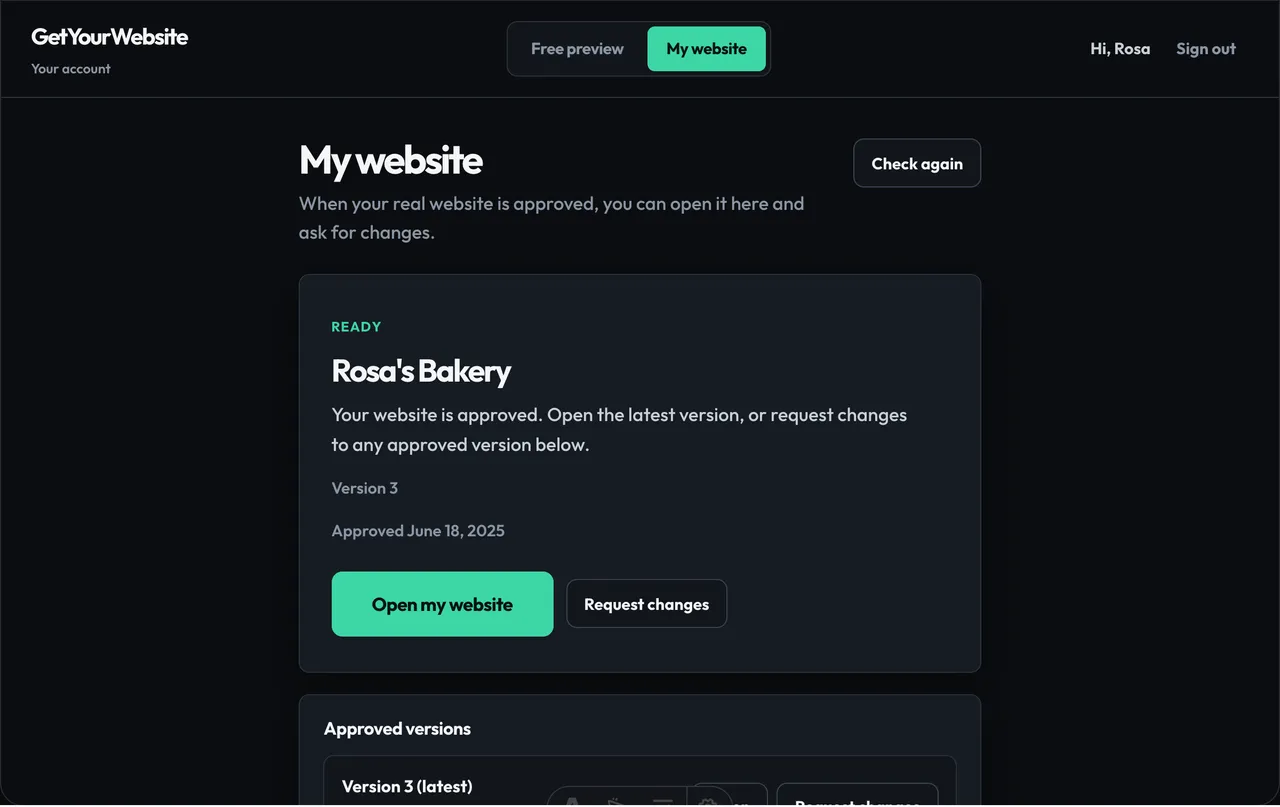
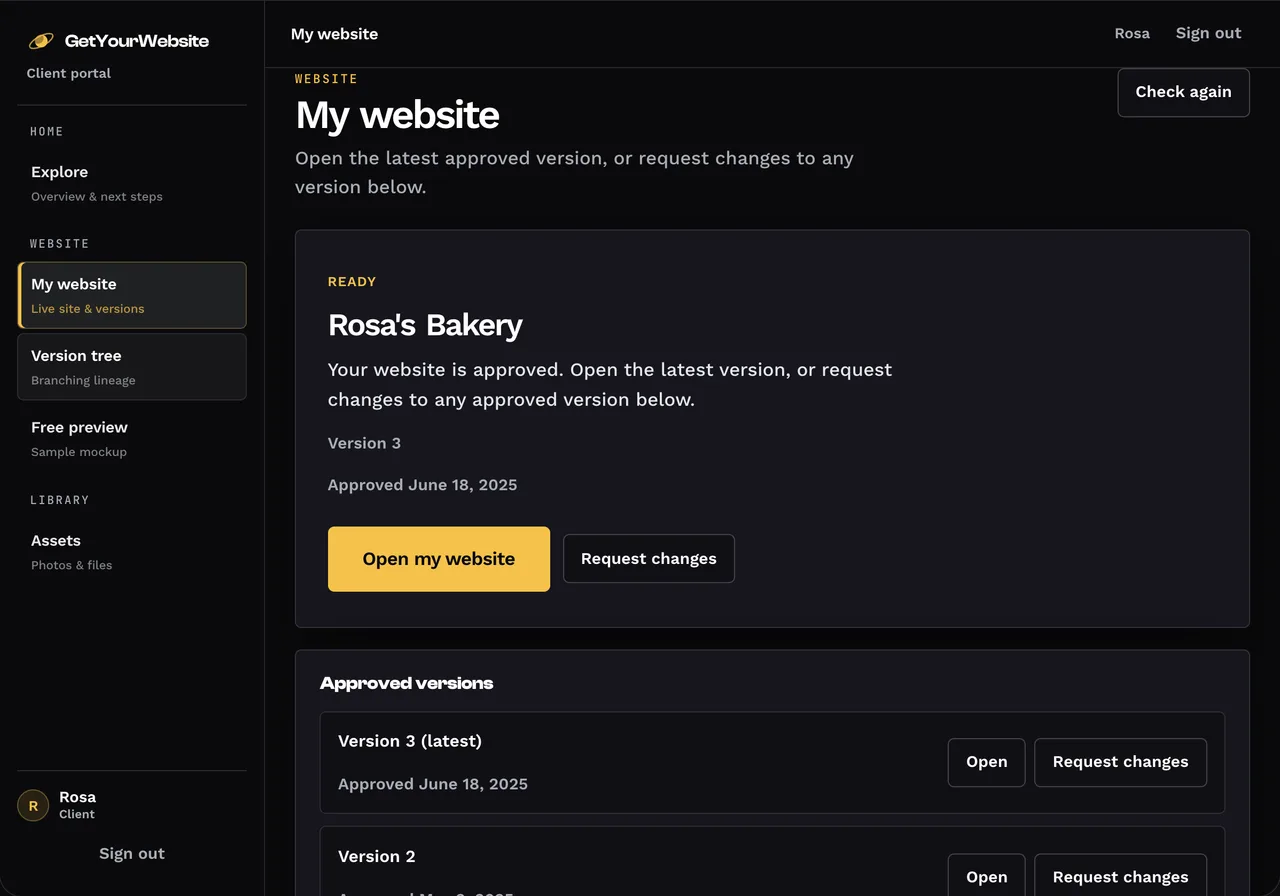
Regenerate the stale portal teaser, and make it fail loudly next time
Jack spotted the home page still showing the pre-rebuild mint portal. The teaser
is a picture of a component that lives in this repo, so it drifted the moment
the sandbox was redesigned and nothing failed.

- public/shots/demo.webp regenerated from the live sandbox, same view as before
  (My website, with the version list the alt text describes) but now with the
  sidebar the redesign added. 1280x807 -> 1280x896, so the <img> dimensions on
  the home page moved with it; leaving them would have reintroduced layout
  shift on a page that measures CLS 0.001.

- tools/teaser.mjs (npm run shots:teaser) regenerates it. Run it after touching
  DemoSandbox.astro. I went with a script plus a check rather than capturing at
  build time: a build that needs a browser is slow, and fails in places a
  static site otherwise wouldn't.

- verify.mjs section 7 is the safety net. It counts saturated pixels by hue —
  the old accent was mint (~160 degrees), the new one is our gold (~44) — so a
  capture from the wrong era is obvious from the pixels alone. Confirmed it
  fails on the old asset before trusting it to pass on the new one: 0 gold /
  2788 mint -> FAIL, versus 2215 gold / 0 mint -> PASS.

  Scoped to portal captures on purpose. A blanket "no green" rule would fail on
  landscaping.webp (foliage) and dental.webp (teal branding), both of which are
  legitimately green client sites.

Swept the rest: og.png, apple-touch-icon.png and the six client-site shots all
[…]

diff --git a/README.md b/README.md
@@ -365,6 +365,7 @@ npm run verify:contrast  # text contrast under the moving ambient gradients, and
 npm run verify:wraps     # how every heading wraps at desktop and mobile
 npm run verify:voids     # scroll-reveal never leaves a fast scroller a blank screen
 npm run shots:ambient    # screenshots of the dark sections, hover and reduced motion
+npm run shots:teaser     # regenerate the home page's portal image from the sandbox
 ```
 
 `tools/shots.mjs` is a general screenshot harness if you want to eyeball
@@ -420,7 +421,12 @@ Search the project for `[EDIT]` to find them all. In priority order:
   have real client photos, host them in `public/` and swap the `src` attributes.
 - **The demo sandbox mirrors our client app** (`GetYourWebsiteAdmin`,
   `development` branch, the **`client/`** workspace — not `frontend/`, which is
-  the staff admin app). If that app's screens change, update
+  the staff admin app). After changing the sandbox, run `npm run shots:teaser`:
+  the home page shows a picture of it (`public/shots/demo.webp`) and that
+  picture is not generated by the build, so it can silently go stale — it did
+  exactly that when the portal moved from mint to gold. `npm run verify`
+  checks the asset's accent hue and fails if it's from the old design.
+  If that app's screens change, update
   `src/components/DemoSandbox.astro` and `src/scripts/demo.js` to match — the
   whole value of that page is that it's honest.
 - **There is no approve button in the demo** because there isn't one in the real
